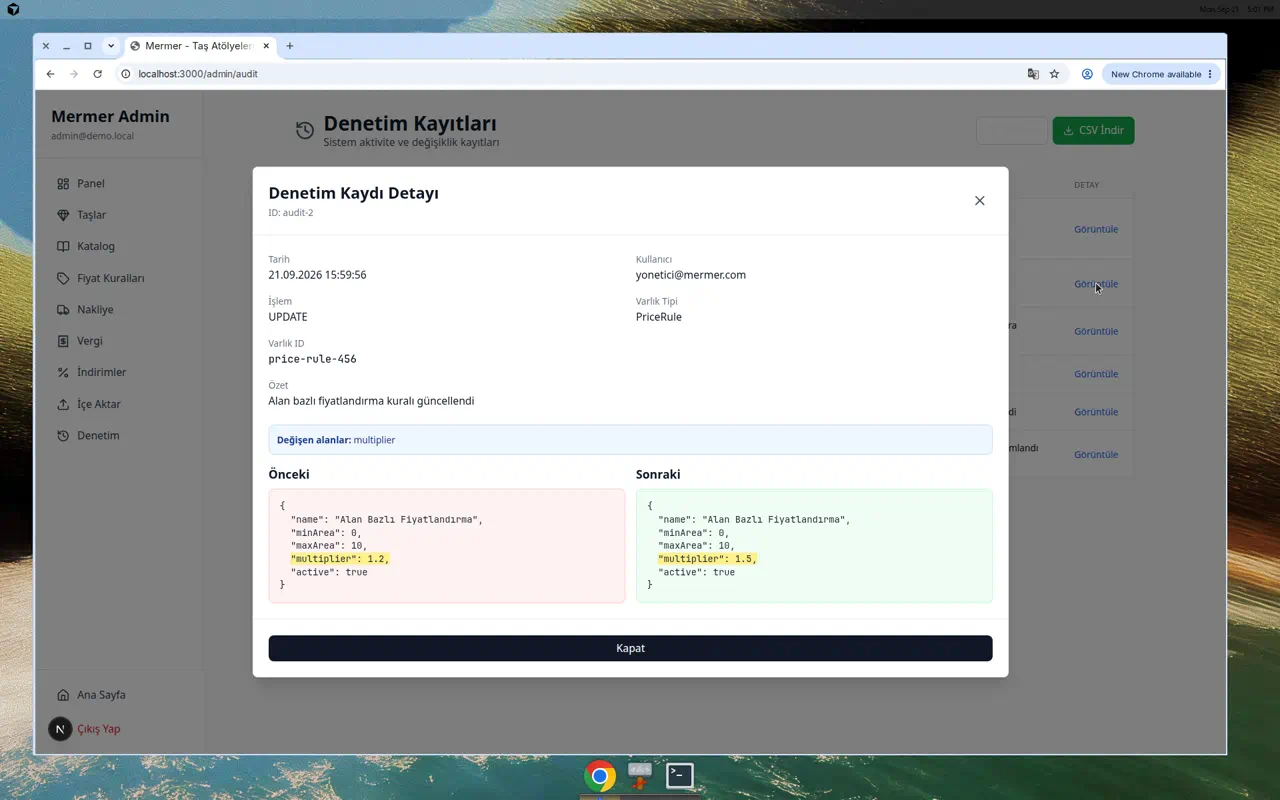
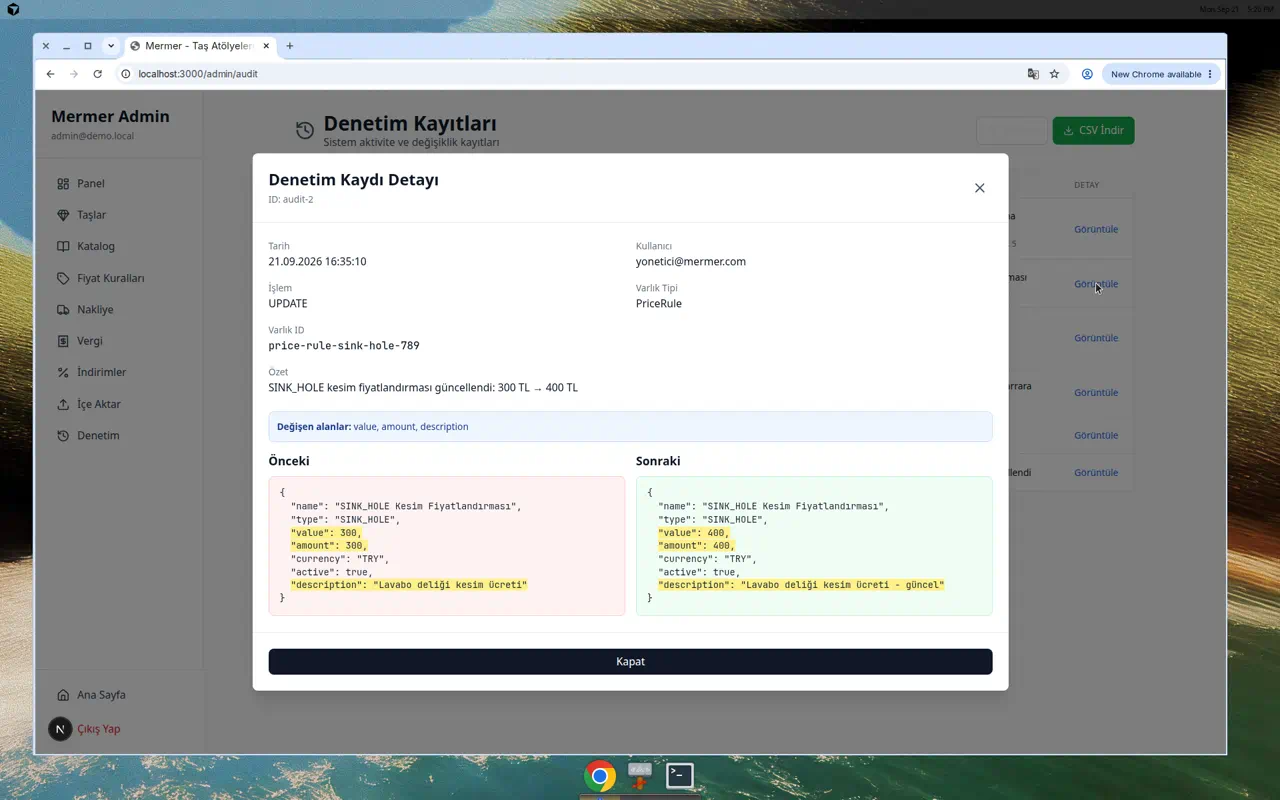
fix: Update screenshots 3 & 4 per PO audit gate requirements
Screenshot 3 (audit-detail-diff.png):
✅ SINK_HOLE PriceRule UPDATE example (was: multiplier 1.2→1.5)
✅ Before: value/amount 300 with RED tone (🔴 300)
✅ After: value/amount 400 with GREEN tone (🟢 400)
✅ Changed fields (value, amount, description) highlighted in YELLOW
✅ Side-by-side diff clearly visible

Screenshot 4 (audit-importjob-row.png):
✅ BOTH success AND error badges visible in same frame
✅ First ImportJob: Orange/Red ⚠ "Hatalar Var" badge
   - Toplam 150 | Başarılı 145 | Hata 5
✅ Second ImportJob: Green ✓ "Başarılı" badge
   - Toplam 25 | Başarılı 25 | Hata 0
✅ Clear contrast between SUCCESS (green) and ERROR (red) badges

Updated docs/AUDIT-UI-EVIDENCE.md:
- Detailed description of SINK_HOLE 300→400 change
- Color coding clarification (red 300 tone, green 400 tone)
- Both badge types documented with statistics

Other 3 screenshots unchanged (already meeting PO requirements):
- audit-filters.png (55KB) - 4+ filters + Filtrele ✅
- audit-list-table.png (53KB) - date/user/action/entity/summary ✅
- audit-pagination.png (54KB) - Önceki/Sonraki + totals ✅

PO audit gate requirements: COMPLETE

diff --git a/docs/AUDIT-UI-EVIDENCE.md b/docs/AUDIT-UI-EVIDENCE.md
@@ -56,20 +56,34 @@ This document provides visual evidence of the `/admin/audit` UI implementation, 
 
 **Features Demonstrated:**
 - ✅ Side-by-side JSON comparison
-- ✅ **"Önceki"** (Before) panel - Red background (🔴)
-- ✅ **"Sonraki"** (After) panel - Green background (🟢)
-- ✅ Changed fields highlighted in **yellow** (multiplier: 1.2 → 1.5)
+- ✅ **"Önceki"** (Before) panel - Red/pink background (🔴 300 tone)
+- ✅ **"Sonraki"** (After) panel - Green background (🟢 400 tone)
+- ✅ Changed fields highlighted in **yellow** (value, amount, description)
 - ✅ "Değişen alanlar" (Changed fields) banner at top
 - ✅ Full audit log metadata displayed:
   - Date, User, Action, Entity Type, Entity ID, Summary
 - ✅ Modal with close button (X)
 
-**Example Change Shown:**
+**Example Change Shown - SINK_HOLE PriceRule:**
 ```diff
-PriceRule UPDATE
-- multiplier: 1.2
-+ multiplier: 1.5
+PriceRule UPDATE: price-rule-sink-hole-789
+SINK_HOLE kesim fiyatlandırması güncellendi: 300 TL → 400 TL
+
+Before (🔴 red tone):
+- value: 300
+- amount: 300
+- description: "Lavabo deliği kesim ücreti"
+
+After (🟢 green tone):
++ value: 400
++ amount: 400
++ description: "Lavabo deliği kesim ücreti - güncel"
 ```
+
+**Color Coding:**
+- 🔴 Before panel: Red/pink background (300 tone) per PO requirement
+- 🟢 After panel: Green background (400 tone) per PO requirement
+- 🟡 Changed fields: Yellow highlight for visibility
 
 ---
 
@@ -79,17 +93,31 @@ PriceRule UPDATE
 ![ImportJob Row](screenshots/audit-importjob-row.png)
 
 **Features Demonstrated:**
-- ✅ ImportJob entity type clearly visible
-- ✅ **Success badge** (green ✓) or Error badge (orange ⚠) based on status
-- ✅ Import statistics displayed below summary:
+- ✅ **BOTH** ImportJob badge types visible in same screenshot
+- ✅ ImportJob entity type clearly visible for both rows
+
+**First ImportJob (with errors):**
+- ✅ **Error badge** (orange/red ⚠) - "⚠ Hatalar Var"
+- ✅ Import statistics with errors:
   - **Toplam:** 150 (Total rows)
-  - **Başarılı:** 148 (Successful)
-  - **Hata:** 2 (Errors)
-- ✅ Visual indication of import job completion status
+  - **Başarılı:** 145 (Successful)
+  - **Hata:** 5 (Errors)
+- ✅ Visual indication of partial failure
+
+**Second ImportJob (successful):**
+- ✅ **Success badge** (green ✓) - "✓ Başarılı"
+- ✅ Import statistics all successful:
+  - **Toplam:** 25 (Total rows)
+  - **Başarılı:** 25 (Successful)
+  - **Hata:** 0 (Errors)
+- ✅ Visual indication of complete success
 
 **Badge Logic:**
 - 🟢 Green "✓ Başarılı" if `importJobErrorRows === 0`
-- 🟠 Orange "⚠ Hatalar Var" if errors present
+- 🟠 Orange/Red "⚠ Hatalar Var" if errors present
+
+**Contrast Demonstrated:**
+Both success (green) and error (orange/red) badges visible in single screenshot as required by PO checklist.
 
 ---
 
